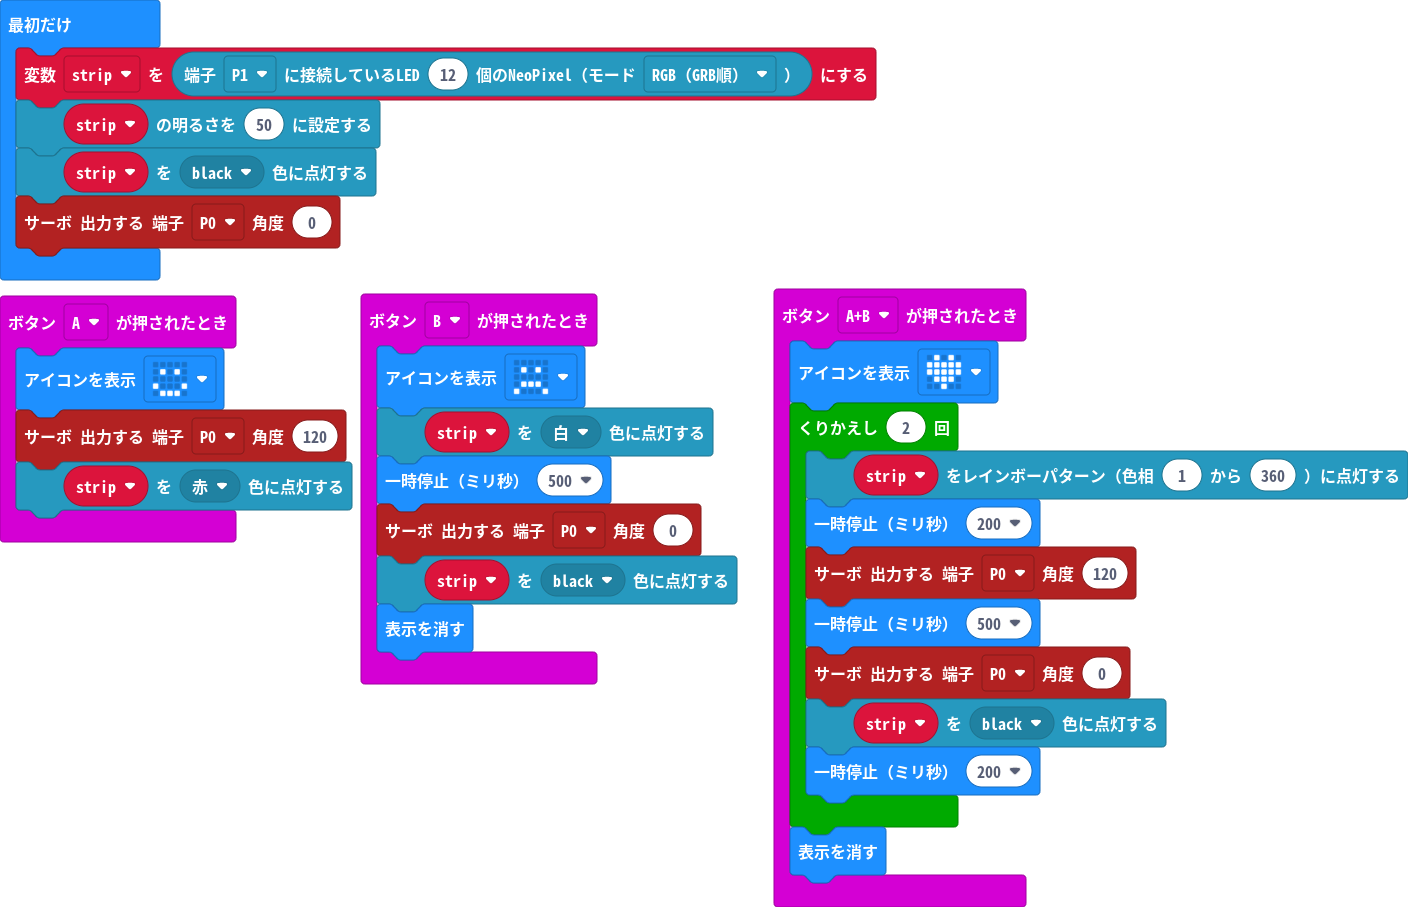
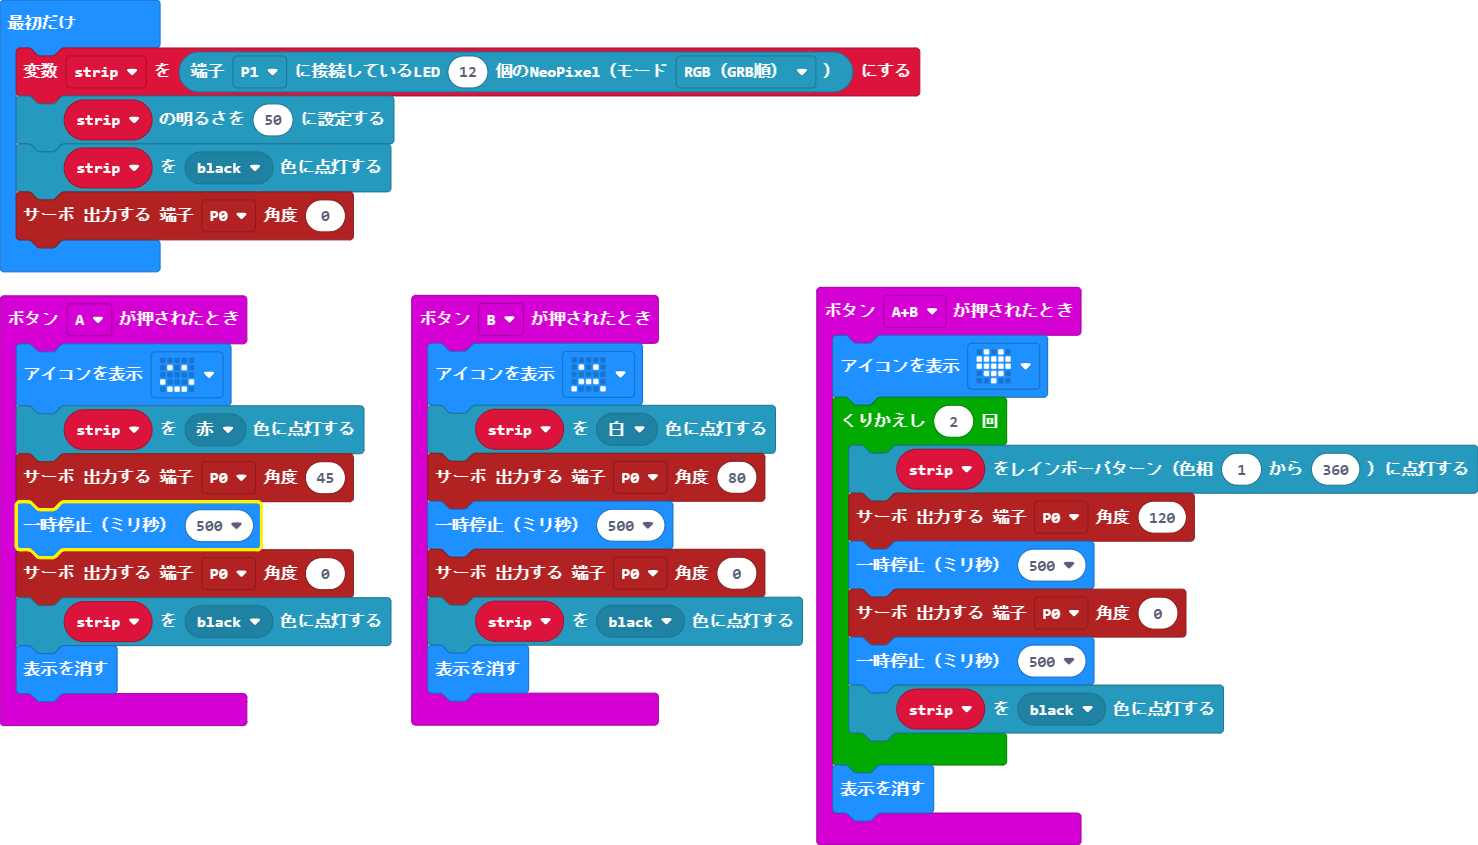
更新 main.blocks, main.ts

diff --git a/main.ts b/main.ts
@@ -1,24 +1,28 @@
 input.onButtonPressed(Button.A, function () {
     basic.showIcon(IconNames.Happy)
-    pins.servoWritePin(AnalogPin.P0, 120)
     strip.showColor(neopixel.colors(NeoPixelColors.Red))
+    pins.servoWritePin(AnalogPin.P0, 45)
+    basic.pause(500)
+    pins.servoWritePin(AnalogPin.P0, 0)
+    strip.showColor(neopixel.colors(NeoPixelColors.Black))
+    basic.clearScreen()
 })
 input.onButtonPressed(Button.AB, function () {
     basic.showIcon(IconNames.Heart)
     for (let index = 0; index < 2; index++) {
         strip.showRainbow(1, 360)
-        basic.pause(200)
         pins.servoWritePin(AnalogPin.P0, 120)
         basic.pause(500)
         pins.servoWritePin(AnalogPin.P0, 0)
+        basic.pause(500)
         strip.showColor(neopixel.colors(NeoPixelColors.Black))
-        basic.pause(200)
     }
     basic.clearScreen()
 })
 input.onButtonPressed(Button.B, function () {
     basic.showIcon(IconNames.Sad)
     strip.showColor(neopixel.colors(NeoPixelColors.White))
+    pins.servoWritePin(AnalogPin.P0, 80)
     basic.pause(500)
     pins.servoWritePin(AnalogPin.P0, 0)
     strip.showColor(neopixel.colors(NeoPixelColors.Black))
